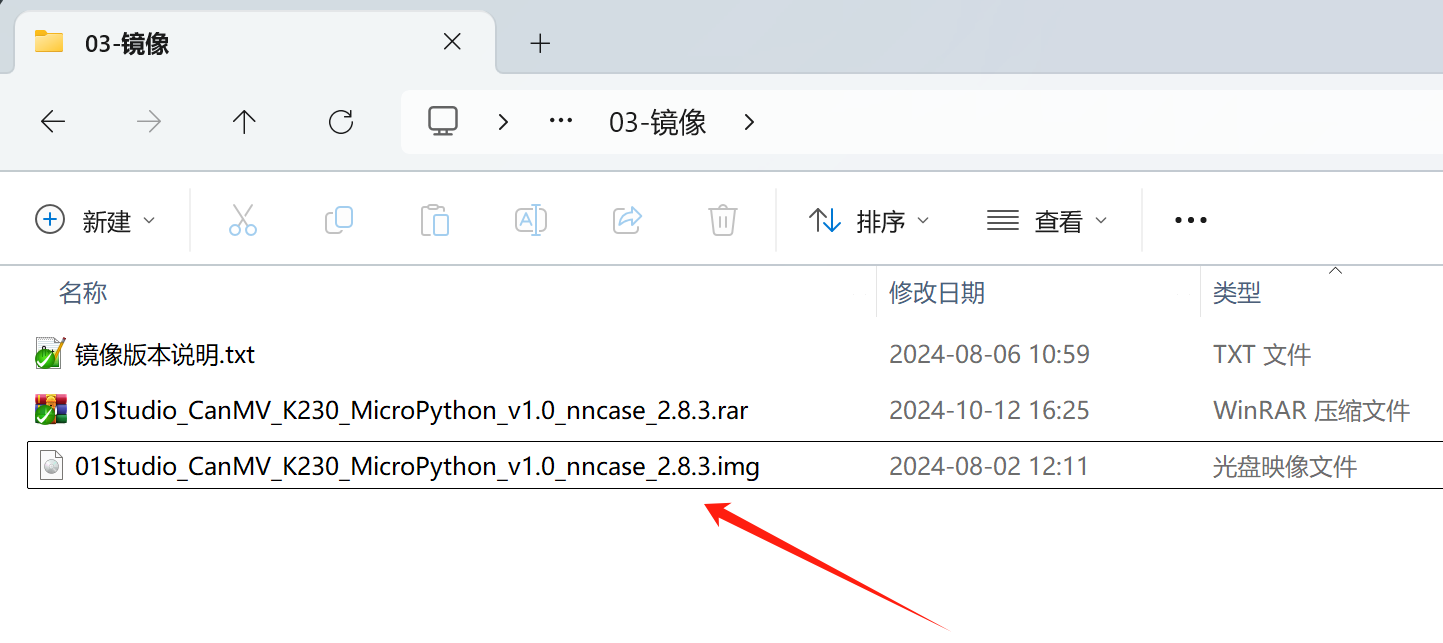
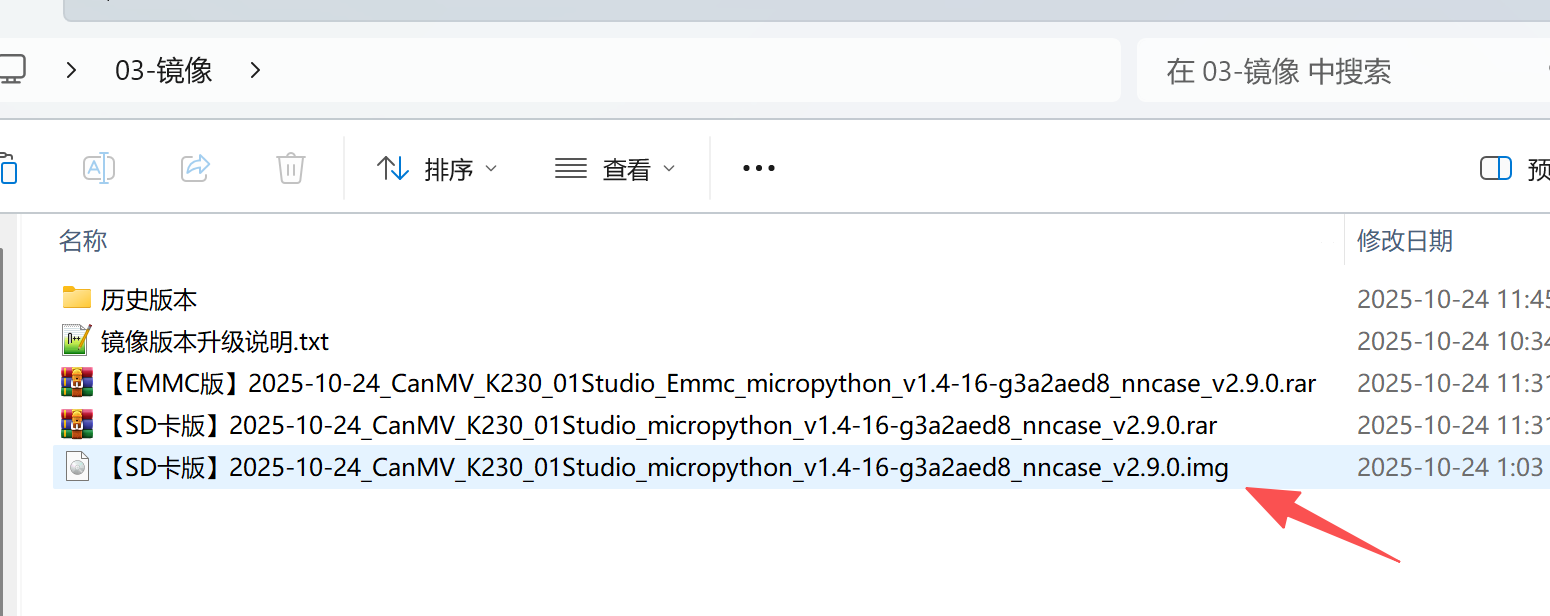
add CM-K230

diff --git a/docusaurus.config.js b/docusaurus.config.js
@@ -80,19 +80,18 @@ const config = {
           src: 'img/logo.svg',
         },
         items: [
-
-          {
-            type: 'docSidebar',
-            sidebarId: 'tutorialSidebar',
-            position: 'left',
-            label: 'CanMV K210教程',
-          },                
           {
             type: 'docSidebar',
             sidebarId: 'newSidebar',
             position: 'left',
             label: 'CanMV K230教程',
           },
+          {
+            type: 'docSidebar',
+            sidebarId: 'tutorialSidebar',
+            position: 'left',
+            label: 'CanMV K210教程',
+          },                
           {
             type: 'dropdown',
             label: '开源项目教程',

diff --git a/docs/canmv_k230/machine_vision/display.md b/docs/canmv_k230/machine_vision/display.md
@@ -110,7 +110,7 @@ sensor.set_pixformat(Sensor.RGB565) #设置输出图像格式，默认通道0
 ## 图像3种不同显示方式（修改注释实现）
 #################################
 
-Display.init(Display.VIRT, sensor.width(), sensor.height()) #通过IDE缓冲区显示图像
+Display.init(Display.VIRT, sensor.width(), sensor.height(), to_ide=True) #通过IDE缓冲区显示图像
 #Display.init(Display.LT9611, to_ide=True) #通过HDMI显示图像
 #Display.init(Display.ST7701, to_ide=True) #通过01Studio 3.5寸mipi显示屏显示图像
 
@@ -148,7 +148,7 @@ while True:
     ## 图像3种不同显示方式（修改注释实现）
     #################################
 
-    #Display.init(Display.VIRT, sensor.width(), sensor.height()) #通过IDE缓冲区显示图像
+    #Display.init(Display.VIRT, sensor.width(), sensor.height(), to_ide=True) #通过IDE缓冲区显示图像
     Display.init(Display.LT9611 ,to_ide=True) #通过HDMI显示图像
     #Display.init(Display.ST7701 ,to_ide=True) #通过01Studio 3.5寸mipi显示屏显示图像
 
@@ -179,7 +179,7 @@ sensor.set_pixformat(Sensor.RGB565) #设置输出图像格式，默认通道0
 ## 图像3种不同显示方式（修改注释实现）
 #################################
 
-#Display.init(Display.VIRT, sensor.width(), sensor.height()) #通过IDE缓冲区显示图像
+#Display.init(Display.VIRT, sensor.width(), sensor.height(), to_ide=True) #通过IDE缓冲区显示图像
 Display.init(Display.LT9611, to_ide=True) #通过HDMI显示图像
 #Display.init(Display.ST7701, to_ide=True) #通过01Studio 3.5寸mipi显示屏显示图像
 
@@ -227,7 +227,7 @@ while True:
     ## 图像3种不同显示方式（修改注释实现）
     #################################
 
-    #Display.init(Display.VIRT, sensor.width(), sensor.height()) #通过IDE缓冲区显示图像
+    #Display.init(Display.VIRT, sensor.width(), sensor.height(), to_ide=True) #通过IDE缓冲区显示图像
     #Display.init(Display.LT9611, to_ide=True) #通过HDMI显示图像
     Display.init(Display.ST7701, to_ide=True) #通过01Studio 3.5寸mipi显示屏显示图像
 
@@ -256,7 +256,7 @@ sensor.set_pixformat(Sensor.RGB565) #设置输出图像格式，默认通道0
 ## 图像3种不同显示方式（修改注释实现）
 #################################
 
-#Display.init(Display.VIRT, sensor.width(), sensor.height()) #通过IDE缓冲区显示图像
+#Display.init(Display.VIRT, sensor.width(), sensor.height(), to_ide=True) #通过IDE缓冲区显示图像
 #Display.init(Display.LT9611, to_ide=True) #通过HDMI显示图像
 Display.init(Display.ST7701, to_ide=True) #通过01Studio 3.5寸mipi显示屏显示图像
 
@@ -314,7 +314,7 @@ while True:
     ## 图像3种不同显示方式（修改注释实现）
     #################################
 
-    #Display.init(Display.VIRT, sensor.width(), sensor.height()) #通过IDE缓冲区显示图像
+    #Display.init(Display.VIRT, sensor.width(), sensor.height(), to_ide=True) #通过IDE缓冲区显示图像
     #Display.init(Display.LT9611, to_ide=True) #通过HDMI显示图像
     Display.init(Display.ST7701, width=640, height=480, to_ide=True) #ST7701默认分辨率为800x480,使用2.4寸需改为640x480,否则无法显示
 
@@ -343,7 +343,7 @@ sensor.set_pixformat(Sensor.RGB565) #设置输出图像格式，默认通道0
 ## 图像3种不同显示方式（修改注释实现）
 #################################
 
-#Display.init(Display.VIRT, sensor.width(), sensor.height()) #通过IDE缓冲区显示图像
+#Display.init(Display.VIRT, sensor.width(), sensor.height(), to_ide=True) #通过IDE缓冲区显示图像
 #Display.init(Display.LT9611, to_ide=True) #通过HDMI显示图像
 Display.init(Display.ST7701, width=640, height=480, to_ide=True) #ST7701默认分辨率为800x480,使用2.4寸需改为640x480,否则无法显示
 

diff --git a/docs/canmv_k230/getting_start/image.md b/docs/canmv_k230/getting_start/image.md
@@ -9,10 +9,12 @@ sidebar_position: 2
 01科技 CanMV K230开发板使用带镜像的SD卡启动。用户可以通过烧录新版镜像获取新功能。镜像文件位于 **零一科技（01Studio）MicroPython开发套件（基于CanMV K230平台）配套资料\03-镜像** 文件夹下。（资料包默认是rar压缩包，需要自行解压后使用以 .img 结尾的镜像文件。）
 
 :::tip Tips
-01科技CanMV K230在线教程跟镜像配套使用，请使用我们资料包提供的镜像版本。镜像名称中的nncase_2.8.3指当前镜像使用的nncase版本，在一些场合比如在线训练可能会用到。
+01科技CanMV K230在线教程跟镜像配套使用，请使用我们资料包提供的镜像版本。镜像名称中的nncase_2.8.3指当前镜像使用的nncase版本，在一些场合比如在线训练可能会用到。**注意：SD卡和EMMC版本镜像不通用。**
 :::
 
 ![image](./img/image/image1.png)
+
+### SD卡烧录
 
 将MicroSD卡通过读卡器连接到电脑：
 
@@ -22,13 +24,42 @@ sidebar_position: 2
 
 ![image](./img/image/image2.png)
 
-检查对应U盘盘符，然后选择.img镜像文件，点击开始：
+检查对应U盘盘符，然后选择SD卡版本的.img镜像文件，点击开始：
 
 ![image](./img/image/image4.png)
 
 烧写完成后如下图所示：
 
 ![image](./img/image/image5.png)
+
+### EMMC烧录
+
+01Studio目前只有 [**CM-K230核心板**](../intro/canmv_k230.md#cm-k230核心板) 提供带EMMC的版本，烧录方式如下：
+
+通电状态下按着BOOT0键不放，然后按一下复位键（也可以按着BOOT0键插入USB上电），让开发板开机进入烧录模式，蓝灯亮表示进入成功。
+
+![image](./img/image/image5_1.png)
+
+在[开发板配套资料包](../download.md)找到开发工具-EMMC烧录工具，解压后得到bin文件，绿色版无需安装。
+
+![image](./img/image/image5_2.png)
+
+进入bin文件夹，打开烧录软件：
+
+![image](./img/image/image5_3.png)
+
+- 目标介质选择`EMMC`
+- 打开解压后.img结尾的镜像文件。**注意要选EMMC版的镜像**
+- 点击`开始`即可烧录。
+
+![image](./img/image/image5_4.png)
+
+烧录完成后如下图。
+
+![image](./img/image/image5_5.png)
+
+然后按复位或者断电重新上电即可开机，详细看下面内容。
+
 
 ## 开机
 
@@ -42,8 +73,19 @@ sidebar_position: 2
 
 ![image](./img/image/image6_1.png)
 
+- CM-K230核心板套件
+
+![image](./img/image/image6_2.png)
+
 我的电脑里面弹出CanMV盘符以及设备管理器出现COM号说明系统启动正常。（没出现可以按下开发板复位键试试。）
 
 ![image](./img/image/image7.png)
 
 ![image](./img/image/image8.png)
+
+## 查看镜像版本
+
+IDE链接开发板后在下方`串口终端`可以看到镜像版本和日期等信息。
+
+![image](./img/image/image10.png)
+

diff --git a/docs/canmv_k230/machine_vision/camera.md b/docs/canmv_k230/machine_vision/camera.md
@@ -183,7 +183,7 @@ sensor.set_framesize(Sensor.FHD) #设置帧大小FHD(1920x1080)，默认通道0
 sensor.set_pixformat(Sensor.RGB565) #设置输出图像格式，默认通道0
 
 #使用IDE缓冲区输出图像,显示尺寸和sensor配置一致。
-Display.init(Display.VIRT, sensor.width(), sensor.height())
+Display.init(Display.VIRT, sensor.width(), sensor.height(), to_ide=True)
 
 MediaManager.init() #初始化media资源管理器
 
@@ -206,6 +206,11 @@ while True:
 ```
 
 ## 实验结果
+
+:::tip 提示
+CanMV K230 和 CanMV K230 mini板载摄像头默认接在CSI2接口（上面代码默认接口）。如果使用CM-K230核心板套件，请将也摄像头接在CSI2接口。
+![camera2](./img/camera/camera7.png)
+:::
 
 点击运行代码，可以看到在右边显示摄像头实时拍摄情况，下方则显示RGB颜色直方图。
 
@@ -231,15 +236,18 @@ while True:
 **CanMV K230 mini 支持CSI0（4lane，兼容2lane）1路扩展。**
 ![camera](./img/camera/camera5.png)
 
-使用方法很简单，只需要在上面示例代码基础上在初始化时候配置`id`参数即可。
+**CM-K230核心板套件 CSI0（2lane）和CSI1(2lane)两路扩展。**
+![camera](./img/camera/camera8.png)
 
-# CSI0接口
+使用方法很简单，只需要在上面示例代码基础上在初始化时候配置`id`参数即可，id默认值为2。
+
+### CSI0接口
 ```python
     ...
     sensor = Sensor(id=0) #id=0表示使用CSI0接口上的摄像头
     ...
 ```
-# CSI1接口
+### CSI1接口
 
 ```python
     ...

diff --git a/docs/canmv_k230/basic_examples/led.md b/docs/canmv_k230/basic_examples/led.md
@@ -143,4 +143,8 @@ while True:
 
 ![led](./img/led/led1_1.png)
 
+- CM-K230核心板套件
+
+![led](./img/led/led1_2.png)
+
 从第一个实验我们可以看到，使用MicroPython来开发关键是要学会构造函数和其使用方法，便可完成对相关对象的操作，在强大的模块函数支持下，实验只用了简单的两行代码便实现了点亮LED灯。

diff --git a/docs/canmv_k230/update.md b/docs/canmv_k230/update.md
@@ -4,9 +4,15 @@ sidebar_position: 24
 
 # 更新说明
 
+## 2025-10-27
+
+- 新增 **产品参数**
+
+    - [CM-K230核心板](./intro/canmv_k230.md#cm-k230核心板)
+
 ## 2025-10-16
 
-- 新增 **机器视觉 -- 在线训练模型**教程。 
+- 新增 **机器视觉 -- 在线训练模型**教程
 
     - [模型分享](./machine_vision/train.md#模型分享)
 

diff --git a/docs/canmv_k230/directory.md b/docs/canmv_k230/directory.md
@@ -9,7 +9,7 @@ sidebar_position: 1
 
 - **CanMV K230套件介绍**
 
-    - [CanMV K230](./intro/canmv_k230.md)
+    - [产品参数](./intro/canmv_k230.md)
     - [配件安装使用](./intro/module.md)
     - [支架安装](./intro/bracket.md)
 

diff --git a/docs/canmv_k230/getting_start/demo.md b/docs/canmv_k230/getting_start/demo.md
@@ -63,6 +63,11 @@ while True:
 
 ![demo6](./img/demo/demo6_1.png)
 
+- CM-K230核心板套件
+
+![demo6](./img/demo/demo6_2.png)
+
+
 
 点击运行按钮旁边的`串口终端`窗口，这里可以看到代码调试信息。
 

diff --git a/docs/canmv_k230/getting_start/power_supply.md b/docs/canmv_k230/getting_start/power_supply.md
@@ -39,4 +39,8 @@ CanMV K230 mini排针引脚1为5V，引脚2为GND。
 
 ![power_supply](./img/power_supply/power_supply4.png)
 
+- CM-K230核心板套件
+
+![power_supply](./img/power_supply/power_supply5.png)
+
 
